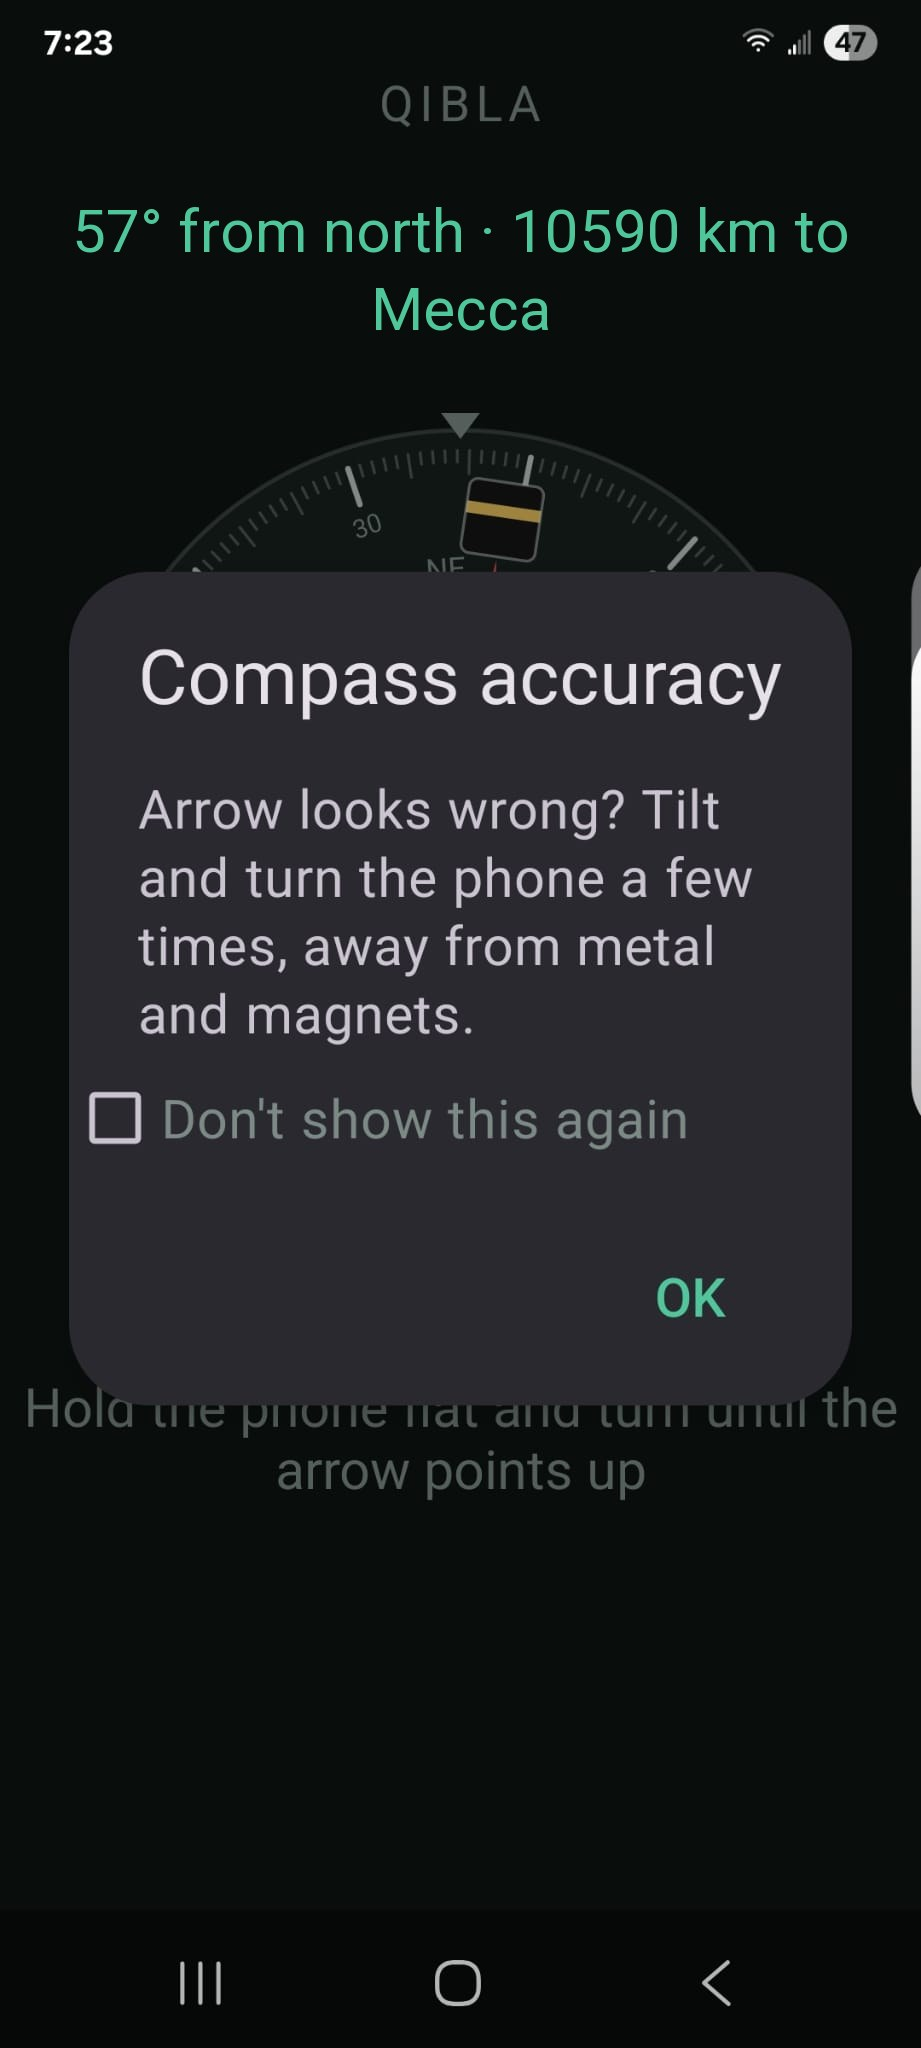
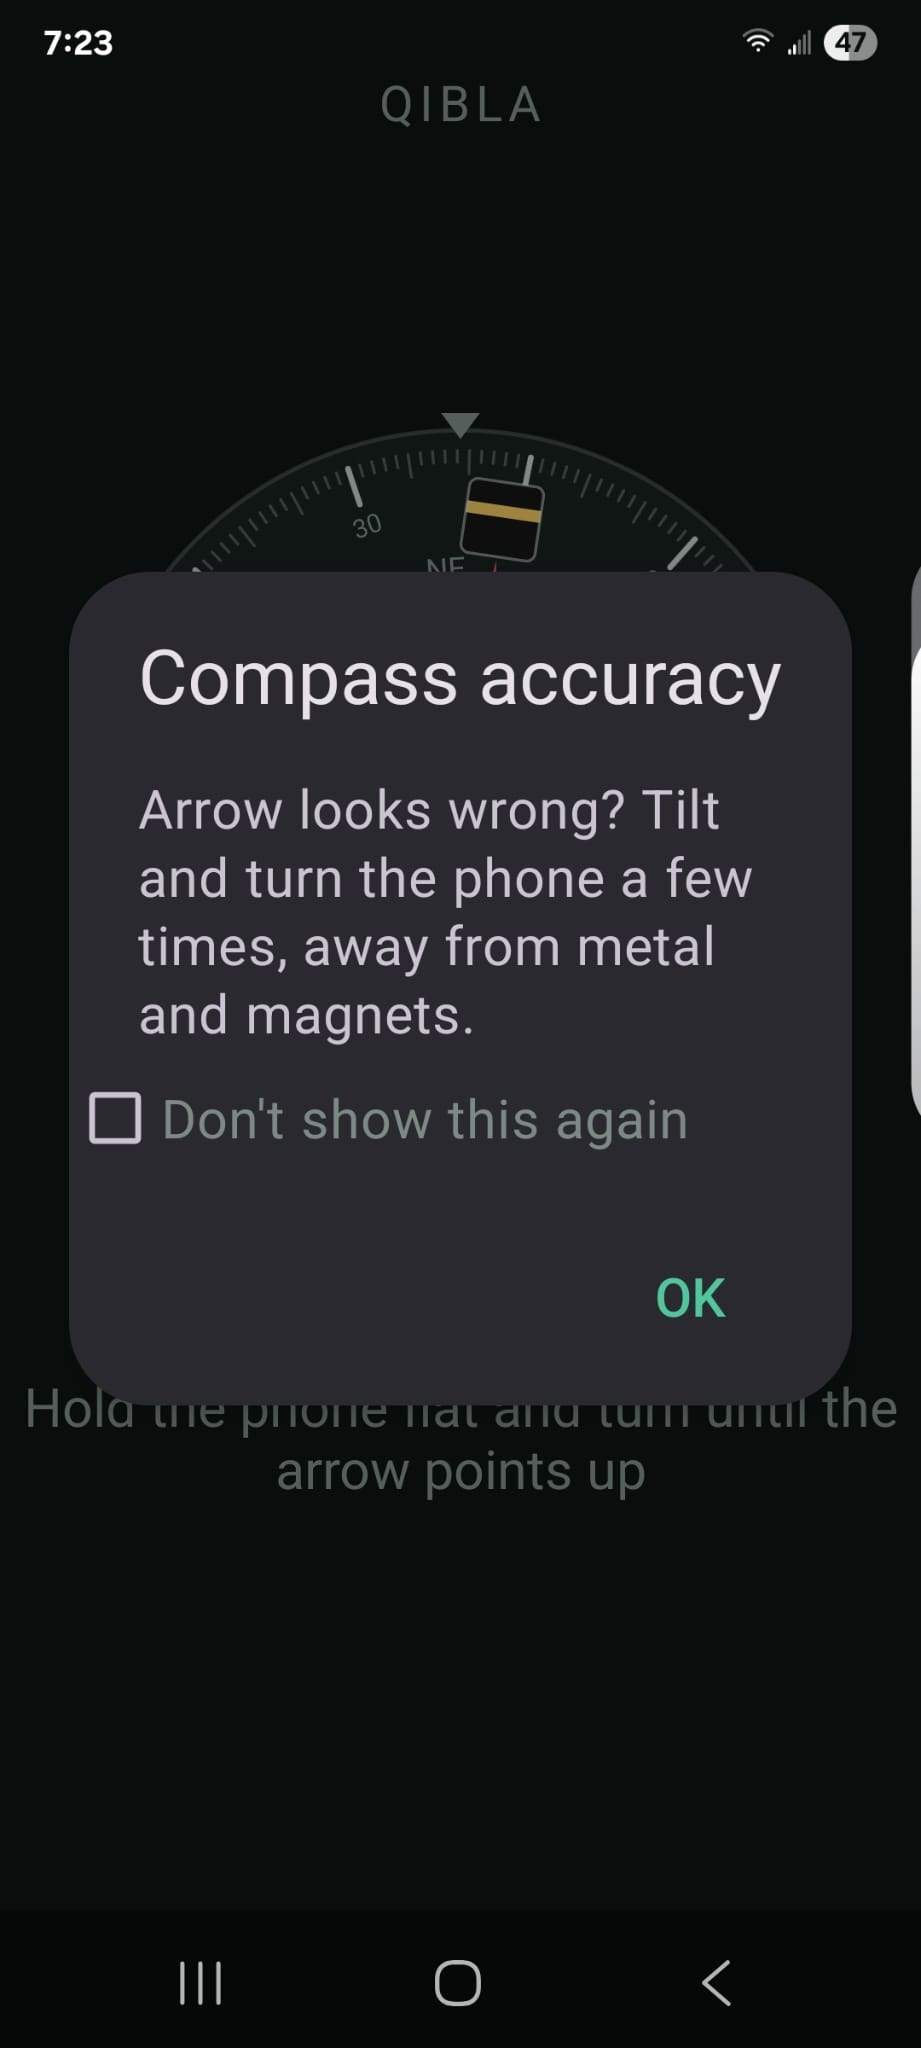
Use the author's own redacted screenshots, and add an Arabic overview
The location line is blacked out rather than replaced: substituting a demo
city still puts a location on a public page, which is what the redaction was
there to prevent. The compass-accuracy shot gets the same treatment, since it
carried the bearing and distance line the others had scrubbed.

Changed region(s): [[0.1824, 0.0938, 0.7296, 0.1562], [0.76, 0.0938, 0.9121, 0.125], [0.0912, 0.0938, 0.152, 0.125]]

diff --git a/README.md b/README.md
@@ -16,11 +16,45 @@
   <img src="https://img.shields.io/badge/licence-MIT-4FC79A?style=flat-square" alt="MIT licence">
 </p>
 
+---
+
+<div dir="rtl" align="right">
+
+## نبذة عن التطبيق
+
+**آذان** تطبيق مجاني خفيف لمواقيت الصلاة، يعمل بالكامل على هاتفك دون حاجة إلى إنترنت أو حساب. لا إعلانات فيه، ولا يجمع أي بيانات، ولا يرسل شيئًا إلى أي خادم.
+
+### ما الذي يقدّمه
+
+- **مواقيت الصلاة دون إنترنت** — تُحسب المواقيت على الجهاز نفسه اعتمادًا على إحداثيات موقعك، مع إمكانية اختيار طريقة الحساب والمذهب، وتعديل يدوي حتى 120 دقيقة زيادةً أو نقصًا إن اختلف توقيت مسجدك المحلي عن الحساب.
+- **الأذان في وقته** — لكل صلاة وضع مستقل: **صوت** أو **اهتزاز** أو **صامت**، يُغيَّر بلمسة واحدة على سطر الصلاة. ويُشغَّل الأذان على مسار المنبّه، فيُسمع حتى لو خفّضتَ جرس الهاتف، وتظهر شاشة الأذان فوق شاشة القفل بزرّ إيقاف واحد لا غير.
+- **تذكير قبل الصلاة** — تنبيه اختياري قبل دخول الوقت بـ 5 أو 10 أو 15 دقيقة، بنغمة أو باهتزاز.
+- **اتجاه القبلة** — بوصلة مصحَّحة إلى الشمال الحقيقي مع مراعاة الانحراف المغناطيسي، وعلامة الكعبة مثبَّتة على القرص.
+- **الشروق** يُعرض للاستئناس فقط، ولا يُرفع له أذان.
+
+### عن تسجيلات الأذان
+
+معظم تسجيلات الأذان المتاحة على الإنترنت محفوظة الحقوق لأصحابها من المؤذّنين وهيئات البثّ، والإشارة إلى المصدر ليست إذنًا بإعادة النشر. ولم أشأ أن أُضمّن التطبيق تسجيلات لا أملك حقّ توزيعها، فسجّلتُ الأذان بصوتي: تسجيلان لصلوات الظهر والعصر والمغرب والعشاء، وتسجيل خاصّ بالفجر لما فيه من «الصلاة خير من النوم».
+
+ولأنّ الأذواق تختلف، جعلتُ تغيير الصوت سهلًا: اختر أي ملف صوتي من هاتفك، أو أي نغمة رنين، أو افتح شاشة «مزيد من تسجيلات الأذان» التي تحيلك إلى مكتبات معروفة في المتصفّح — والتطبيق نفسه لا يُنزّل شيئًا ولا يستضيفه — ثم يظهر ما نزّلته ضمن «الأذانات المنزَّلة» لتختاره وتُثبّته.
+
+### الخصوصية
+
+لا يجمع التطبيق أي بيانات ولا يرسل شيئًا خارج الهاتف: لا تتبُّع، ولا إعلانات، ولا اتصال بالشبكة أصلًا. تُحفظ إحداثيات موقعك في إعدادات التطبيق الخاصة على جهازك وحده، وتُستخدم لحساب المواقيت واتجاه القبلة فحسب.
+
+### التحميل والتثبيت
+
+نزّل ملف `athan-v1.0.apk` من صفحة [الإصدارات](../../releases). عند فتحه سيطلب منك أندرويد السماح بالتثبيت من مصدر غير معروف، وهي رسالة معتادة لأي تطبيق يُثبَّت خارج متجر Play، ولا علاقة لها بالتطبيق نفسه. يتطلّب أندرويد 8.0 فأحدث، وحجمه نحو 6 ميجابايت.
+
+</div>
+
+---
+
+## In English
+
 It calculates prayer times offline, plays the athan at the right moment (even
 with the ringer down), and points to the qibla. Package
 `com.ahmedkhalaf.athan`; free, and free of ads.
-
----
 
 ## Screenshots
 
@@ -39,7 +73,7 @@ with the ringer down), and points to the qibla. Package
   <img src="docs/screenshots/downloaded-athans.jpg" width="220" alt="Athans you downloaded yourself appear here">
 </p>
 
-<p align="center"><sub>The city and the distance to Mecca are demo values; the app keeps your location on the device only.</sub></p>
+<p align="center"><sub>Location details are blacked out in these screenshots. The app keeps your location on the device only.</sub></p>
 
 ---
 
